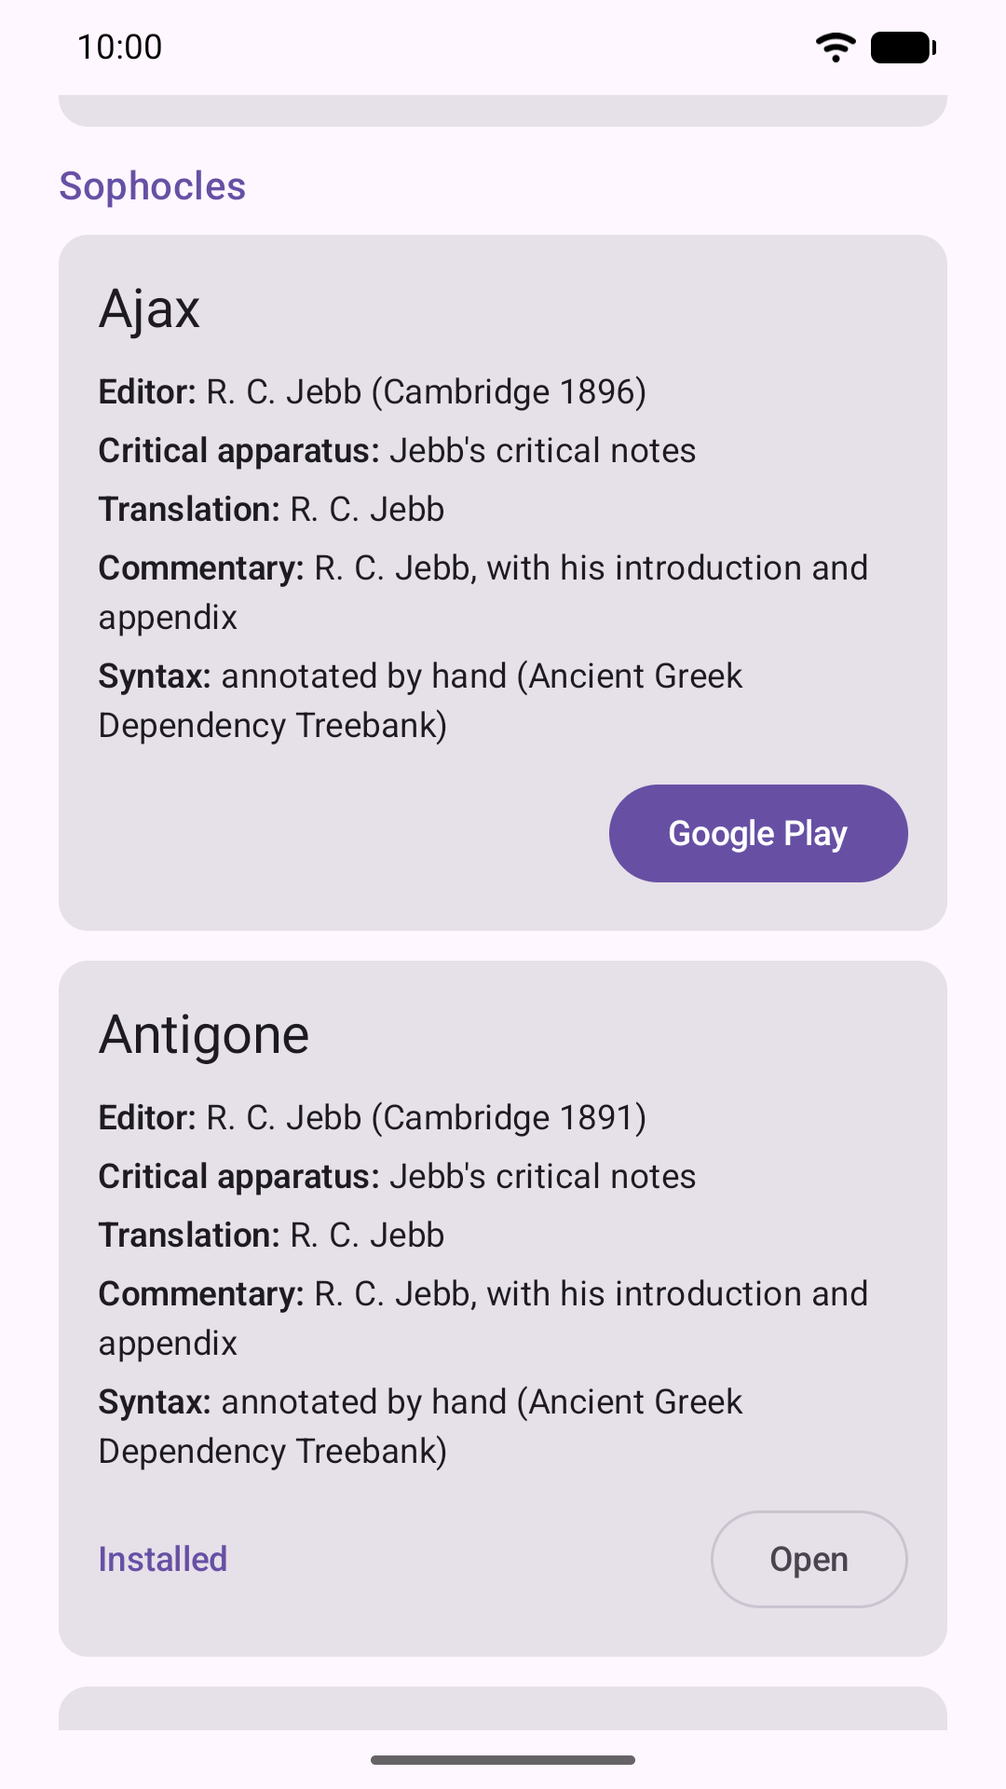
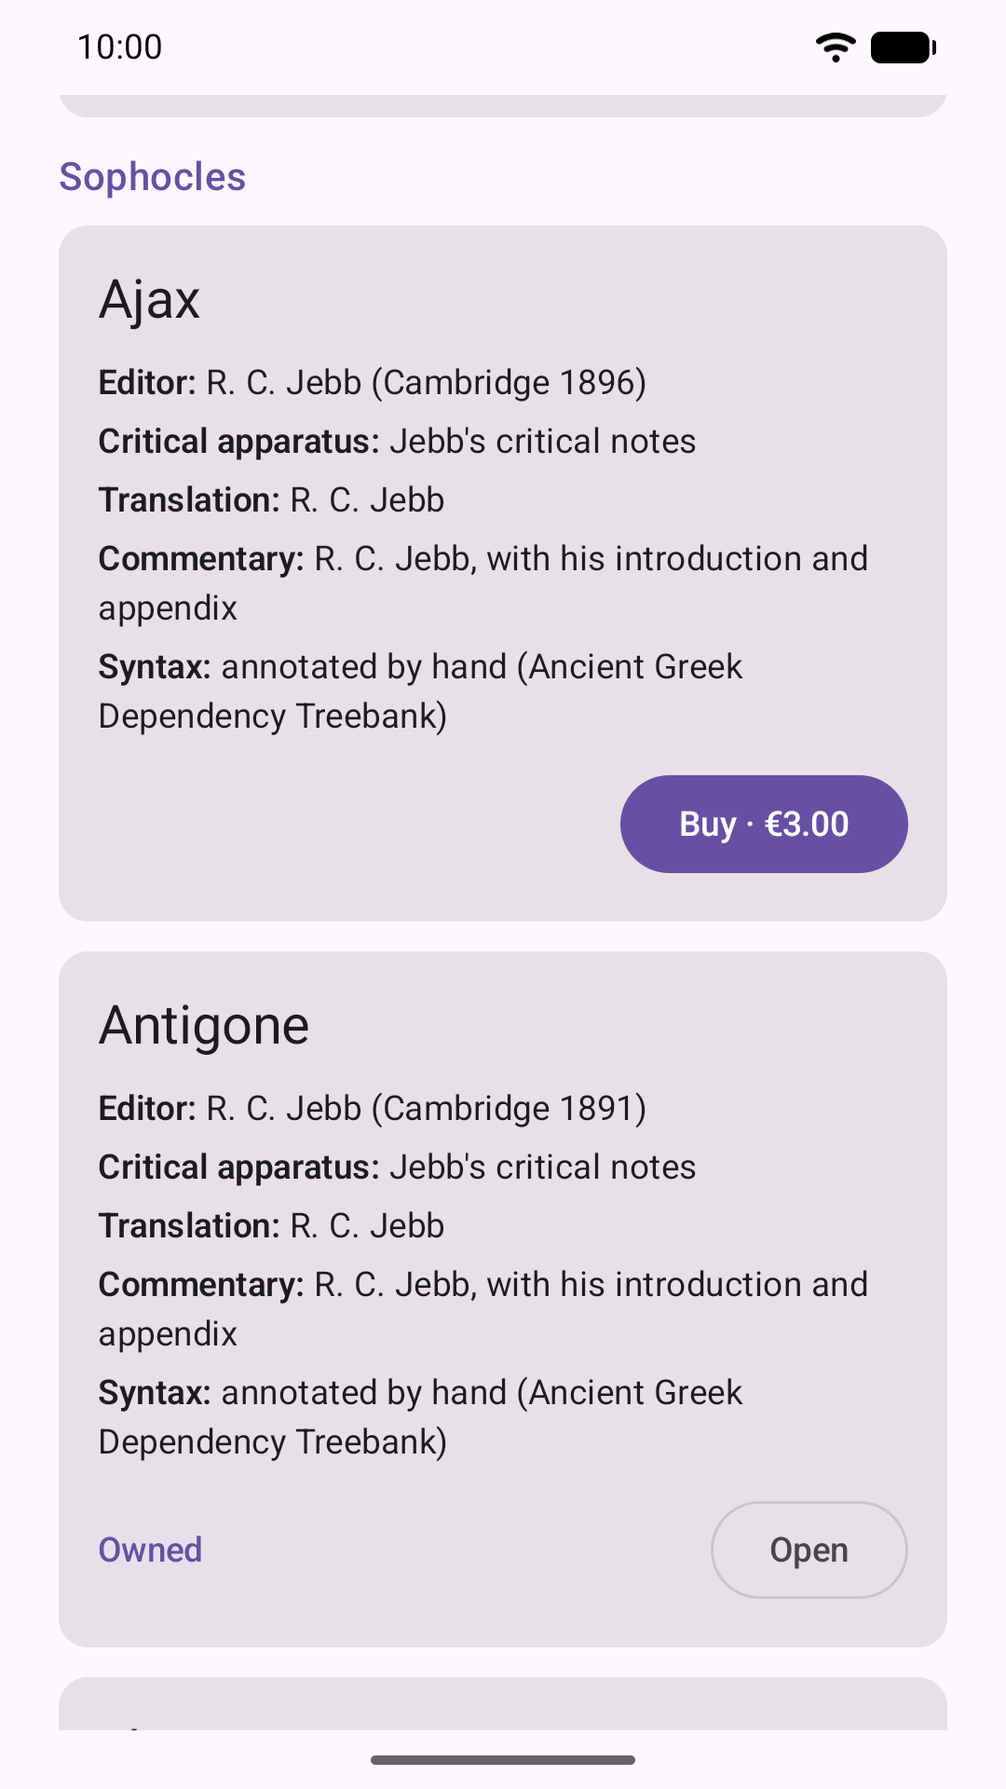
In-app texts, step 6: privacy policy, READMEs, Play Console guide and reader listing for texts bought in the app; the Available texts screenshot retaken

diff --git a/play/README.md b/play/README.md
@@ -1,49 +1,85 @@
 # Google Play
 
-Everything needed for the store listings of the reader and the text apps.
+Everything needed for the store listing of the reader, which sells the texts inside it, and for
+the text apps, should a text later also be sold as an app of its own.
 
 | App | Package | Bundle (after `./gradlew :<module>:bundleRelease` in app/) | Icon | Feature graphic | Screenshots | Listing |
 |---|---|---|---|---|---|---|
-| Anagnosis (free) | no.anagnosis.reader | app/androidApp/build/outputs/bundle/release/androidApp-release.aab | icon-512.png | feature-graphic.png | screenshots/reader/{phone,tablet-7,tablet-10} | listings/reader.md |
-| Antigone | no.anagnosis.antigone | app/antigoneApp/…/antigoneApp-release.aab | antigone-icon-512.png | antigone-feature-graphic.png | screenshots/antigone/phone | listings/antigone.md |
-| Ajax | no.anagnosis.ajax | app/ajaxApp/…/ajaxApp-release.aab | ajax-icon-512.png | ajax-feature-graphic.png | screenshots/ajax/phone | listings/ajax.md |
-| Electra | no.anagnosis.electra | app/electraApp/…/electraApp-release.aab | electra-icon-512.png | electra-feature-graphic.png | screenshots/electra/phone | listings/electra.md |
-| Odyssey | no.anagnosis.odyssey | app/odysseyApp/…/odysseyApp-release.aab | odyssey-icon-512.png | odyssey-feature-graphic.png | screenshots/odyssey/phone | listings/odyssey.md |
-| Symposium | no.anagnosis.symposium | app/symposiumApp/…/symposiumApp-release.aab | symposium-icon-512.png | symposium-feature-graphic.png | screenshots/symposium/phone | listings/symposium.md |
-| New Testament | no.anagnosis.newtestament | app/newTestamentApp/…/newTestamentApp-release.aab | newtestament-icon-512.png | newtestament-feature-graphic.png | screenshots/newtestament/phone | listings/newtestament.md |
+| Anagnosis (free, texts bought inside it) | no.anagnosis.reader | app/androidApp/build/outputs/bundle/release/androidApp-release.aab | icon-512.png | feature-graphic.png | screenshots/reader/{phone,tablet-7,tablet-10} | listings/reader.md |
 
-The text apps are priced at €3; the reader is free.
+The reader's bundle carries every text on sale as an asset pack (app/packs/), so it is larger
+than the app people download (about 100 MB uploaded; the texts are fetched only once bought).
 
 ## In Play Console
 
-1. Payments profile (needed before any app can be priced).
-2. Create the reader first. Let Google manage its app signing key (Play App Signing) and upload
-   the reader's bundle.
-3. Create each text app. Before any release of it rolls out in open testing or production, open
-   **Protected with Play › Play Store Protection › Manage Play App Signing**, click **Change the
-   app signing key**, choose **Use the same key as another app in this developer account** and pick
-   Anagnosis. Check that the SHA-256 of the app signing key is the reader's. The reader accepts a
-   text only from an app signed with its own key, and the key cannot be changed once a release has
-   rolled out in open testing or production. ("Upgrade key" is not the same: it applies only to
-   Android 17 and later.)
-4. For every app: privacy policy URL
-   (https://github.com/polemistes/anagnosis/blob/main/PRIVACY.md), data safety ("no data
-   collected or shared"), content rating questionnaire, target audience (not aimed at children),
-   ads: none, category (Education, or Books & Reference).
-5. Store listing: title, short and full description from listings/, the icon, the feature
-   graphic and the screenshots.
-6. Price the text apps at €3 (Play converts to local prices) and choose the countries.
+The reader is free; each text is a one-time in-app product at €3, with the product id
+`text_<slug>`:
 
-Release in this order, because review checks every link against the live store, and a link
-to a page that is not public yet counts as broken (Antigone was rejected for this, 2026-10-13):
+| Text | Product id |
+|---|---|
+| Antigone | text_antigone |
+| Ajax | text_ajax |
+| Electra | text_electra |
+| Odyssey | text_odyssey |
+| Symposium | text_symposium |
+| New Testament | text_newtestament |
 
-1. The reader, with no text marked `google_play: yes` (its "Available texts" button then reads
-   "Texts will be available soon" and is disabled). Since reader 0.2.0 (versionCode 4).
-2. The text apps, once the reader is live. A text app opened without the reader sends the user to
-   the reader's page on Google Play, so it cannot pass review before then. In the review notes,
-   say that the app adds its text to the free reader and give the reader's Play link.
-3. Each text app once it is live: mark it `google_play: yes` in its about.md and release a reader
-   update, which then lists it with a link to its page.
+1. Payments profile (needed before anything can be sold).
+2. The reader exists already (no.anagnosis.reader, with Play App Signing). Upload the 0.3.0
+   bundle to **Test and release › Testing › Internal testing**, with yourself on the testers'
+   list, and roll it out. Products can only be created once a bundle with the billing library
+   has been uploaded.
+3. **Settings › License testing**: add your own Google account. A licence tester buys with
+   test cards and is never charged.
+4. **Monetize with Play › Products › One-time products**: create the six products above, each
+   with a name (the text's English title), a short description, the price €3 (Play converts it to
+   local prices), and activate them. The shop lists a text only once its product is active.
+5. Install the reader on your phone from the internal testing link (not from Android Studio:
+   purchases only work in a copy installed by Google Play). Open Available texts, buy a text with
+   a test card, and check that it downloads, appears on the front page and opens. This is the
+   check that buying works although the reader has no internet permission.
+6. **Policy and programmes › App content**: privacy policy URL
+   (https://github.com/polemistes/anagnosis/blob/main/PRIVACY.md); data safety ("no data
+   collected or shared": the reader itself sends nothing, and Google's billing library cannot
+   send its reports without the internet permission; read the form's help on purchases made
+   through Google Play billing before answering); content rating; target audience (not aimed at
+   children); ads: none. Play may also ask about the foreground service: it is the download
+   service of Play Asset Delivery (type "data sync"), which brings a bought text onto the device.
+7. Store listing: title, short and full description from listings/reader.md, the icon, the
+   feature graphic and the screenshots.
+8. When the test purchase works, promote the release from internal testing to production. The
+   products stay as they are.
+
+A new text later: build it, add its pack (app/packs/<slug>, app/settings.gradle.kts and the
+reader's `assetPacks`), mark it `google_play: yes`, release a reader update, then create and
+activate its product.
+
+## Text apps (optional)
+
+A text can also be sold as an app of its own, for a store page that people searching for it
+can find; the reader takes in its text as before. The modules (app/antigoneApp, …) and their
+graphics and listings are kept here:
+
+| App | Package | Icon | Feature graphic | Screenshots | Listing |
+|---|---|---|---|---|---|
+| Antigone | no.anagnosis.antigone | antigone-icon-512.png | antigone-feature-graphic.png | screenshots/antigone/phone | listings/antigone.md |
+| Ajax | no.anagnosis.ajax | ajax-icon-512.png | ajax-feature-graphic.png | screenshots/ajax/phone | listings/ajax.md |
+| Electra | no.anagnosis.electra | electra-icon-512.png | electra-feature-graphic.png | screenshots/electra/phone | listings/electra.md |
+| Odyssey | no.anagnosis.odyssey | odyssey-icon-512.png | odyssey-feature-graphic.png | screenshots/odyssey/phone | listings/odyssey.md |
+| Symposium | no.anagnosis.symposium | symposium-icon-512.png | symposium-feature-graphic.png | screenshots/symposium/phone | listings/symposium.md |
+| New Testament | no.anagnosis.newtestament | newtestament-icon-512.png | newtestament-feature-graphic.png | screenshots/newtestament/phone | listings/newtestament.md |
+
+* Release one only once the reader is live: a text app opened without the reader sends the user
+  to the reader's page on Google Play, and review counts a link to a page that is not public yet
+  as broken (Antigone was rejected for this, 2026-10-13). In the review notes, say that the app
+  adds its text to the free reader and give the reader's Play link.
+* Before any release of it rolls out in open testing or production, open **Protected with
+  Play › Play Store Protection › Manage Play App Signing**, click **Change the app signing key**,
+  choose **Use the same key as another app in this developer account** and pick Anagnosis. Check
+  that the SHA-256 of the app signing key is the reader's. The reader accepts a text only from an
+  app signed with its own key, and the key cannot be changed once a release has rolled out.
+* Say in its listing that the text can also be bought inside the free reader, at the same price,
+  so that nobody buys it twice.
 
 ## Making the graphics again
 

diff --git a/README.md b/README.md
@@ -1,7 +1,7 @@
 # Anagnosis
 
 An ancient Greek reading app for Android. The app is free and works as a dictionary and
-morphological analyser; texts are bought as separate apps.
+morphological analyser; texts are bought inside it.
 
 Tap a word to see its dictionary entry and morphology, switch between the Greek and
 translations, consult commentaries, and write your own notes on passages. Search the Greek, the
@@ -20,9 +20,10 @@ free of charge: the code under the GPL (see LICENSE), the texts and data under C
                                and of Autenrieth's Homeric Dictionary; corrections to the OCR of Woodhouse's
                                English-Greek Dictionary
     data/        build output: the SQLite bundle shipped with the app (not committed)
-    app/         the Android apps (Kotlin Multiplatform, Compose): the free reader (androidApp), which carries no text,
-                 and one small paid app per text (antigoneApp, odysseyApp, symposiumApp, newTestamentApp, ajaxApp ...),
-                 which hands its text to the reader
+    app/         the Android apps (Kotlin Multiplatform, Compose): the free reader (androidApp), which carries no text;
+                 one asset pack per text sold inside it (packs/); and one small app per text (antigoneApp, odysseyApp,
+                 symposiumApp, newTestamentApp, ajaxApp ...), which hands its text to the reader, for a text that may
+                 also be sold as an app of its own
 
 ## Building the data bundle
 
@@ -34,6 +35,7 @@ free of charge: the code under the GPL (see LICENSE), the texts and data under C
     .venv/bin/python -m anagnosis_pipeline check    # validate texts/
     .venv/bin/python -m anagnosis_pipeline build    # write data/lexicon.sqlite (shared dictionaries) and data/<text>.sqlite
     .venv/bin/python -m anagnosis_pipeline build --only odyssey   # rebuild one text, keeping the lexicon
+    .venv/bin/python -m anagnosis_pipeline catalog  # rewrite data/catalog.json alone (after editing an about.md)
 
 The Odyssey has commands of its own:
 
@@ -73,18 +75,33 @@ The word analyser's forms come from running Morpheus over the open Perseus corpu
 
 See [texts/README.md](texts/README.md) for the file formats.
 
-## Texts sold as separate apps
+## Texts bought in the reader
 
 The reader (`no.anagnosis.reader`) is free and carries no text: without one it is a dictionary
-and word analyser. Every text is a paid app of its own (Antigone: `no.anagnosis.antigone`; the
-Odyssey: `no.anagnosis.odyssey`; the Symposium: `no.anagnosis.symposium`; the New Testament:
-`no.anagnosis.newtestament`; the other Sophocles plays likewise) that carries the text's database.
-The reader's list of available texts shows the texts marked `google_play: yes` in their
-`about.md`, with the price given there (see texts/README.md). The reader looks for
-apps that answer the action `no.anagnosis.action.TEXT` and are signed with its own key, copies
-their text in, and removes it again when the app is uninstalled. On Google Play the text apps
-must therefore be signed with the same app signing key as the reader: when creating such an
-app in Play Console, choose to use the reader's app signing key.
+and word analyser. Every text is sold inside it as a one-time in-app product through Google Play
+Billing, with the product id `text_<slug>` (`text_antigone`, `text_newtestament`). The text itself
+travels with the reader's bundle as an on-demand asset pack (`app/packs/<slug>`), which Google
+Play hosts and downloads once the text is bought; the reader copies it in and removes the pack.
+The reader's shop (Available texts) lists the texts marked `google_play: yes` in their
+`about.md` (see texts/README.md) whose product Google Play offers, with Play's price in the
+buyer's currency. What the account owns is asked of Google Play whenever the app comes to the
+front, so a new device or a reinstall gets the texts back, and a refunded text is hidden again.
+The plan and its reasons are in [app/PLAN-in-app-purchases.md](app/PLAN-in-app-purchases.md).
+
+The reader has no internet permission: payments and downloads are done by the Google Play app.
+Google's billing library brings the permission along to send its own diagnostic reports; the
+reader's manifest removes it.
+
+A text can also be sold as an app of its own (Antigone: `no.anagnosis.antigone`; the other texts
+likewise), which carries the text's database. The reader looks for apps that answer the action
+`no.anagnosis.action.TEXT` and are signed with its own key, copies their text in, and removes it
+again when the app is uninstalled (unless the text was also bought in the reader). On Google Play
+such an app must therefore be signed with the same app signing key as the reader: when creating
+it in Play Console, choose to use the reader's app signing key.
+
+To try the shop on the emulator, which has no Play Store, install a debug bundle with
+bundletool's local testing (`build-apks --local-testing`, then `install-apks`): debug builds on
+an emulator buy with a fake billing that charges nothing, and the packs are served locally.
 
 ## Licences
 

diff --git a/play/listings/reader.md b/play/listings/reader.md
@@ -10,9 +10,9 @@ Anagnosis Ancient Greek Reader
 
 Read ancient Greek: dictionaries, word analysis. Add texts with notes. Offline.
 
-## Full description (2860)
+## Full description (2927)
 
-Anagnosis is an app for reading ancient Greek texts. It provides dictionaries and a tool for morphological analysis, and it is free. Texts to read inside the app are bought separately, each as an app of its own. The app provides a critical apparatus, syntax of sentences, a translation and a commentary for each available text (the New Testament does not have a commentary yet).
+Anagnosis is an app for reading ancient Greek texts. It provides dictionaries and a tool for morphological analysis, and it is free. Texts to read inside the app are bought separately, inside the app. The app provides a critical apparatus, syntax of sentences, a translation and a commentary for each available text (the New Testament does not have a commentary yet).
 
 DICTIONARIES
 • Liddell, Scott and Jones, A Greek-English Lexicon (LSJ, 1940)
@@ -36,10 +36,10 @@ TEXTS AVAILABLE
 • Homer: Odyssey, T. W. Allen's Oxford text and apparatus, A. T. Murray's translation and the commentary of Merry, Riddell and Monro
 • Plato: Symposium, John Burnet's Oxford text and apparatus, Benjamin Jowett's translation and R. G. Bury's commentary
 • The Greek New Testament in the SBL edition, with its apparatus and the Berean Standard Bible
-Each text is a separate app; once it is installed, it appears on the front page of Anagnosis.
+Each text is bought inside the app; it is then downloaded and appears on the front page of Anagnosis.
 
-Everything works offline. The app has no ads, collects no data and needs no permissions. Its code is Free Software (GPL), and the texts and data are open (CC BY-SA), at github.com/polemistes/anagnosis. This is the first release of Anagnosis. Please report any bugs or suggestions for improvement on the GitHub page.
+Everything works offline. The app has no ads, collects no data and does not connect to the internet; buying and downloading a text is done by the Google Play app. Its code is Free Software (GPL), and the texts and data are open (CC BY-SA), at github.com/polemistes/anagnosis. This is the first release of Anagnosis. Please report any bugs or suggestions for improvement on the GitHub page.
 
-You are welcome to download the source files for the app and the texts and build them yourself without paying anything. If you prefer the convenience of installing the app and texts from Google Play, the payments for the text apps will encourage the inclusion of more texts and further development of the app.
+You are welcome to download the source files for the app and the texts and build them yourself without paying anything. If you prefer the convenience of installing the app and texts from Google Play, the payments for the texts will encourage the inclusion of more texts and further development of the app.
 
 This app has been created with the help of large language models.

diff --git a/PRIVACY.md b/PRIVACY.md
@@ -3,13 +3,17 @@
 Anagnosis is an ancient Greek text reader for Android, published by Robert Emil Berge.
 
 **Anagnosis does not collect any data.** The app works entirely offline. It does not
-connect to the internet, it contains no analytics, advertising or crash-reporting
-libraries, and it does not ask for any permissions.
+connect to the internet, and Android does not allow it to: the app does not have the
+internet permission. It contains no analytics, advertising or crash-reporting libraries.
+Google's billing library, which the app needs in order to sell texts, includes code that
+sends diagnostic reports to Google; since the app has no internet permission, these
+reports cannot leave your device.
 
 The only information the app stores is kept on your own device: your reading position
-in each text, your display preferences (font, text size, colours, line numbers) and the
-notes you write on passages of the texts. The app itself never sends this information
-anywhere, and it is deleted when the app is uninstalled.
+in each text, your display preferences (font, text size, colours, line numbers), the
+notes you write on passages of the texts, and the list of texts you have bought. The app
+itself never sends this information anywhere, and it is deleted when the app is
+uninstalled.
 
 If backup is turned on in your device's settings, Android includes your notes and
 preferences in the device's backup and when you move to a new device; this is done by
@@ -17,8 +21,14 @@ Android under Google's terms, not by the app. The texts and dictionaries are not
 the backup. You can also export your notes on a text to a file yourself, which is saved
 where you choose.
 
-Purchases are handled by Google Play under Google's own terms and privacy policy. The
-app itself does not receive any personal information about the buyer.
+**Buying texts.** Texts are bought inside the app through Google Play. The payment, and
+the download of a bought text, are handled by the Google Play app on your device, under
+Google's own terms and privacy policy. Anagnosis only asks Google Play which texts your
+Google account has bought, so that it can show them and fetch them again on a new
+device; it receives no personal information about you. For this the app declares a few
+permissions that Android grants without asking: the billing permission, which lets it
+ask Google Play about purchases, and those Google Play's download service needs to bring a
+bought text onto the device in the background.
 
 If you have questions, write to develop@robertemilberge.no.
 

diff --git a/texts/README.md b/texts/README.md
@@ -273,8 +273,8 @@ Every file here is made by `import-nt` from the sources `fetch-nt` downloads; ed
 longer description (not shown in the app at present); its `# key: value` headers give:
 
 * `title_en`, `author_en`: the English title and author ("Antigone by Sophocles").
-* `app_id`: the Google Play id of the app that sells the text (`no.anagnosis.antigone`); its
-  store page is `https://play.google.com/store/apps/details?id=<app_id>`.
+* `app_id`: the Google Play id of the text's own app (`no.anagnosis.antigone`), for a text
+  also sold as an app of its own.
 * `ref_edition`, `ref_translation`, `ref_commentary`: the books the edition, translation and
   commentary come from, shown on the text's own page. Equal references share one line ("Edition,
   translation and commentary: R. C. Jebb, ..."); an empty or missing one is left out.
@@ -283,11 +283,14 @@ longer description (not shown in the app at present); its `# key: value` headers
   `syntax` says whether the syntax is annotated by hand or machine-made.
 * `syntax_source`, `syntax_license`: where the lemmas, morphology and syntax come from, for the
   text's About and credits.
-* `google_play: yes`: the text's app is on Google Play, so the reader offers it in the list
-  of available texts. Texts without it are not listed.
+* `google_play: yes`: the text is on sale in the reader: it has an asset pack (`app/packs/<slug>`,
+  listed in app/settings.gradle.kts and the reader's `assetPacks`) and the shop offers it as the
+  in-app product `text_<slug>`, once that product is active in Play Console. Texts without it
+  are not listed.
 
 The catalog is bundled with the reader, so a change here reaches users with the reader's next
-update. `build --only none` rewrites the catalog without rebuilding any database.
+update. `catalog` rewrites the catalog without rebuilding any database; it also writes each
+built text's `version`, by which the reader knows that a downloaded text is out of date.
 
 ## Other documents (`sigla.md`, `introduction.md`, `appendix.md`)
 

diff --git a/app/PLAN-in-app-purchases.md b/app/PLAN-in-app-purchases.md
@@ -182,5 +182,5 @@ at €3 and activate them; add yourself as a licence tester and buy each text on
 - [x] 3. Google Play (2026-10-13; builds, tested in step 5)
 - [x] 4. The shop page (2026-10-13)
 - [x] 5. Test on the emulator (2026-10-13: buy, download, read, refund hides, rebuy without download, lost and outdated texts fetched again, text app beside the shop both ways; release build starts and says Play cannot be reached. Fixed: fake billing chosen on the emulator by hardware, since its image has a stub Play Store; a text app just uninstalled no longer stops the fetch; R8 keep rule for WorkManager's database. A real purchase can only be tested from Play's internal testing track.)
-- [ ] 6. Documents
+- [x] 6. Documents (2026-10-13: PRIVACY.md, README.md, texts/README.md, play/README.md, play/listings/reader.md, the Available texts screenshot; release AAB rebuilt)
 - [ ] 7. Purchase signature
